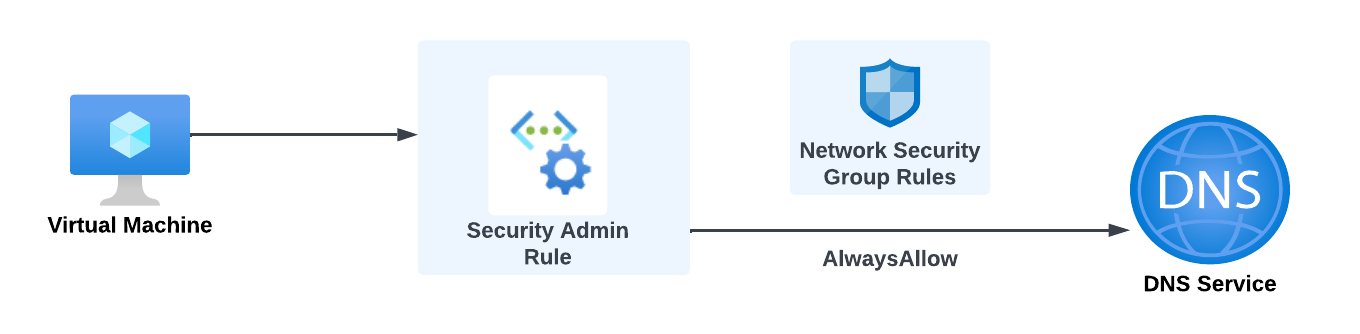
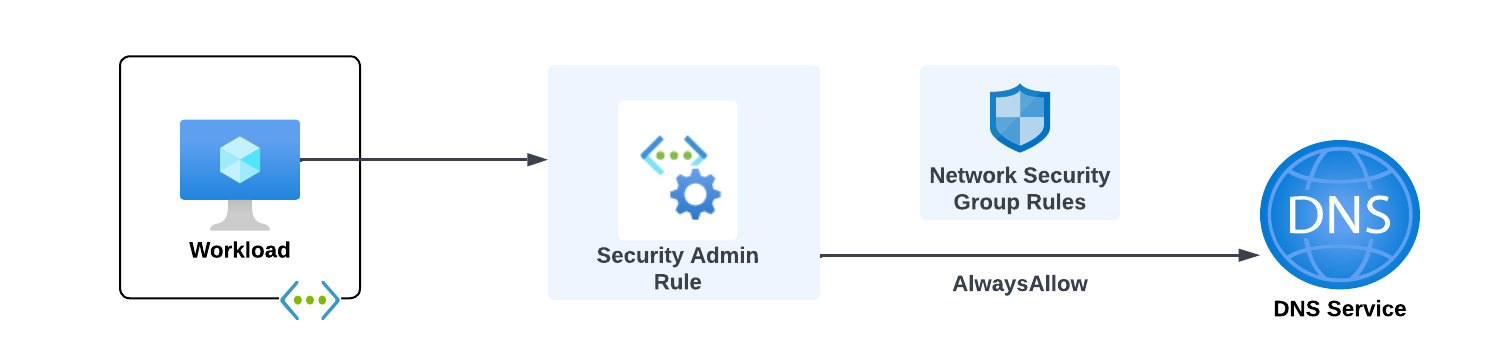
modified - added scenario 2 and 3

diff --git a/blog/security-rules.md b/blog/security-rules.md
@@ -10,7 +10,7 @@ An Azure Virtual Network Manager (Network Manager) instance is deployed to a reg
 
 The resource scope represents the subscription or subscriptions a Network Manager can manage. Resource scopes can include management groups to manage groups of subscriptions or individual subscriptions. Only one Network Manager can manage a specific scope at one time. The image below provides an example of how an organization could configure the resource scopes of Network Manager.
 
-![sample resource scopes](../images/sample-arch.png)
+![sample resource scopes](../images/sample_arch.png)
 
 The functional scope determines which types of configurations the Network Manager will support. There are two scopes for management of virtual networks which include Connectivity and SecurityAdmin. [Connectivity Configurations](https://learn.microsoft.com/en-us/azure/virtual-network-manager/concept-connectivity-configuration) are used to manage the desired state of the connectivity and [SecurityAdmin Configurations](https://learn.microsoft.com/en-us/azure/virtual-network-manager/concept-security-admins) are used to manage Security Rules for the virtual networks within the resource scope. Configurations are deployed to one or more Azure regions.
 
@@ -32,7 +32,7 @@ The visual below illustrates how Security Admin Rules work with Network Security
 
 ![rules processing](../images/processing.png)
 
-Before we see the rules in action, let's cover some practical use cases based upon the Security Admin Rule action.
+Before we see the rules in action, let's cover some practical use cases based upon the Security Admin Rule actions.
 
 * Deny
     * Protect high-risk ports **by default** for all new and existing virtual networks.
@@ -46,28 +46,94 @@ Before we see the rules in action, let's cover some practical use cases based up
 Let's take a look at Security Admin Rules in action.
 
 ## AlwaysAllow Demonstration
-In this scenario the organization wants to ensure DNS traffic cannot be mistakenly blocked by application teams. 
+In this scenario the organization's Central IT team must ensure that network traffic to critical infrastructure services cannot be mistakenly blocked by a misconfiguration. DNS is considered a critical infrastructure service for the organization and is provided by a 3rd-party DNS service hosted at 1.1.1.1. Let's look at how a security admin rule could help satisify this requirement.
 
 ![scenario 1](../images/d1-goal.png)
 
-Here we can observe the Network Security Group applied the virtual machine's subnet is denying outbound DNS traffic to the DNS service.
+The network security group configured by an application team has been configured to block DNS traffic to the organization's preferred DNS service as seen in the image below.
 
-![nsg rules](../images/d1-outbound-nsg.png)
+![nsg rules scenario 1](../images/d1-outbound-nsg.png)
 
-Performing a DNS lookup on the virtual machine using the DNS service shows a timeout as expected showing the Network Security Group security rule is currently in effect.
+When a DNS lookup is performed on the virtual machine directed to the DNS service the request times out due to it being blocked by the security rule configured in the network security group.
 
 ![dig fail](../images/d1-dig-deny.png)
 
-We now will deploy an AVNM Security Configuration to the virtual machine's region that contains a SecurityAdmin Rule Collection that has been associated to the Network Group the virtual machine's virtual network is a member of. This rule collection includes an AlwaysAllow rule for this traffic flow.
+The Central IT team creates an instance of Azure Virtual Network Manager and sets is resource scope to a management group which all of the application team subscriptions are children of. It then creates a new SecurityAdmin Configuration and adds a rule collection. The rule collection is associated with a network group that uses Azure Policy to manage the dynamic membership of the group based upon virtual networks containing the tag of environment=prod. Contained in this rule collection is a security admin rule which uses the Always Allow action to allow outbound DNS traffic destined to the organization's DNS service. 
 
-![dns security rule](../images/d1-sec-admin-rule.png)
+![d1-arch](../images/d1-arch.png)
 
-After the security configuration is applied, performing another DNS lookup to the DNS service comes back successful showing that the AlwaysAllow action supercedes Network Security Group rules.
+The Central IT team then deploys the new SecurityAdmin Configuration to the Azure relevant Azure regions. The virtual network which include the production tag will be onboarded into the production network group at the next Azure Policy enforcement. When completed, another test is performed showing that the DNS traffic is now allowed to the 3rd-party DNS service. 
 
 ![dig success](../images/d1-dig-success.png)
 
 ## Deny Demonstration
-In this scenario the organization wants to block HTTP traffic to virtual networks containing workloads which hold sensitive data. The organization has created a Security Admin Rule 
+In this scenario the organization has a requirement to ensure all web-based communication with production workloads that store or process sensitive data is encrypted. Production workloads that do not store or process sensitive data do not have the requirement and it should be enforced on those workloads. Let's take a look at how we can use multiple rule collections and network groups to assign security admin rules to a subset of machines. 
+
+![scenario 2](../images/d2-goal.png)
+
+A network security group has been configured by the application team to allow HTTP to a production workload storing sensitive data.
+
+![nsg rules scenario2](../images/d2-inbound-nsg.png)
+
+Performing a curl on the virtual machine from another endpoint returns the Hello World web page indicating the traffic is being allowed by the network security group.
+
+![curl success](../images/d2-curl-success.png)
+
+The Central IT team does not need to create another SecurityAdmin Configuration to satisfy this requirement. Instead, it uses the existing SecurityAdmin Configuration and creates a new rule collection that will block this encrypted network flow. The rule collection is associated with a new network group that uses Azure Policy to manage the dynamic membership of the group based upon the virtual networks containing the tag of environment=production and classification=sensitive. Contained in the rule collection is a security admin rule which uses the Deny action to block HTTP traffic. This new rule collection will only target production machines that contain the additional tag indicating it stores or processes sensitive data.
+
+![d2 arch](../images/d2-arch.png)
+
+The Central IT team then re-deploys the modified SecurityAdmin Configuration to the Azure relevant Azure regions. The application team's virtual network includes the matching classification tag and will be onboarded into the network group at the next Azure Policy enforcement.  When completed, inbound HTTP traffic to the sensitive virtual network is block. This demonstrates how an organization can block specific protocols by default to comply with the organization's security standards.
+
+![curl failure](../images/d2-curl-failure.png)
+
+## Allow Demonstration
+In this scenario the organization must ensure that SSH access to both production and non-production application team workloads is supported when coming from a trusted group of jump hosts but only if the application team requires it. Let's look at how an Allow and Deny security admin rule can be used in combination to allow for a traffic flow from a specific source while leaving it up to the application team to determine if that flow is required for their workload.
+
+![scenario 3](../images/d3-goal.png)
+
+The Central IT team will the existing SecurityAdmin configuration and production rule collection created in the first scenario. Another rule collection will be created for non-production workloads and associated to a new network group. The new network group will use Azure Policy to manage the dynamic membership of the group based upon the virtual networks having the tag of environment=nonproduction. The existing production rule collection will be modified to include a new Allow and Deny security admin rules for incoming SSH traffic. The new non-production rule collection will contain the same Allow and Deny security admin rules.
+
+![d3-arch](../images/d3-arch.png)
+
+The Central IT team then re-deploys the modified SecurityAdmin Configuration to the Azure relevant Azure regions. The application team's virtual network is tagged with an environment tag that has a value of production and has been onboarded into the production network group.  The newly added Allow and Deny security admin rules for SSH access will take effect.
+
+The application team has determined that it does not want to support inbound SSH traffic for its production workload. It has configured its network security group to block all inbound traffic except for HTTP traffic as seen below.
+
+![inbound nsg block ssh](../images/d3-nsg-inbound-deny.png)
+
+Attempts to SSH to resources within the non-production virtual network is denied because the network security group security rule.
+
+![ssh failure](../images/d3-ssh-fail.png)
+
+For non-production the application team would like to support SSH connections. However, they have allowed all sources. This is where the additional Deny security admin rule comes into play. This acts as a guardrail to restrict the machines that can SSH to the trusted jump servers.
+
+![inbound nsg allow ssh](../images/d3-nsg-inbound-all.png)
+
+SSH connections from the trusted jump hosts is allowed because both the security admin rules and network security groups allow the connection. Attempts any other source will be rejected because of the deny security admin rule.
+
+![ssh success](../images/d3-ssh-success.png)
+
+
+
+
+
+
+
+
+
+
+
+
+
+
+
+
+
+
+
+
+
 
 
 
